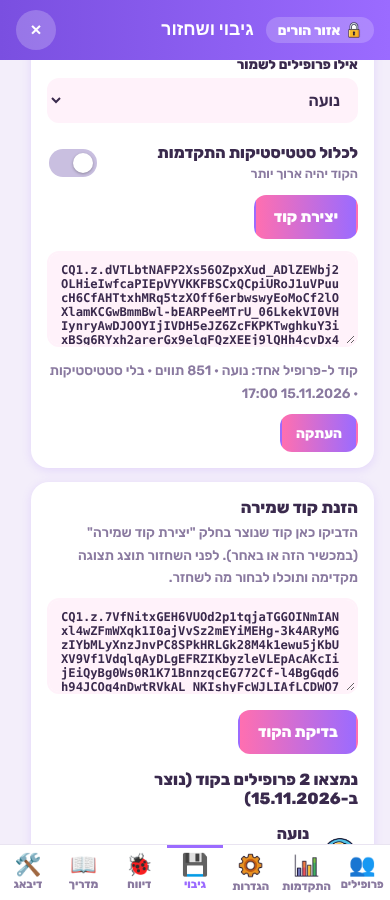
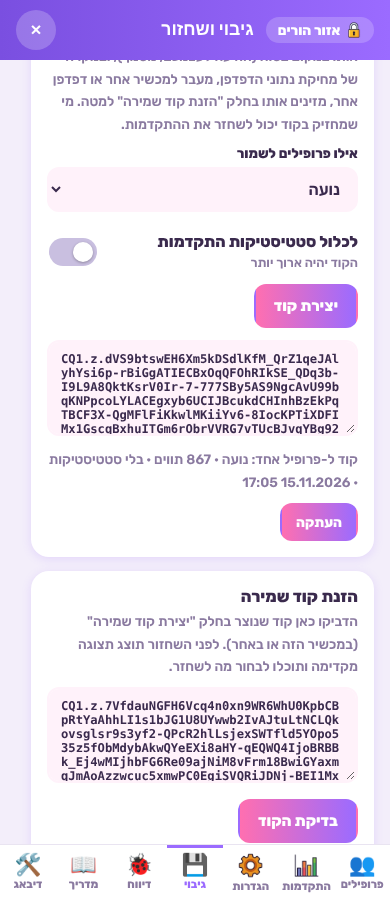
Show coin balance beside the gift square
Once the room is unlocked, the top-left shows the coins next to
the prizes (wide screens only). Version 2026.11.15f.

Claude-Session: https://claude.ai/code/session_014bxtQwGCqcJn3mQBcD8JTQ

Changed region(s): [[0.0923, 0.0622, 0.9538, 0.9644], [0.1231, 0.1556, 0.2462, 0.2178]]

diff --git a/math-quest.html b/math-quest.html
@@ -588,6 +588,12 @@ body[data-view="play"] .card{background:color-mix(in srgb, var(--card) 76%, tran
 .topbar .chip{padding:3px 12px; font-size:.8rem; justify-content:space-between; background:var(--card); gap:8px}
 .topbar .rewardstrip{width:72px; height:72px; flex:none; margin:0; padding:4px 3px; gap:0; align-items:center; justify-content:center; position:relative; background:var(--card); border-radius:16px}
 .topbar .rs-title, .topbar .rs-cotton, .topbar .rs-gold{display:none !important}
+/* once the room is unlocked, the coins are shown next to the gift square (wide screens only: a phone has no room for it) */
+.topgifts{display:flex; align-items:flex-start; gap:6px; flex:none}
+.tokbadge{width:58px; height:72px; box-sizing:border-box; display:flex; flex-direction:column; align-items:center; justify-content:center; gap:2px; background:var(--card); border-radius:16px; box-shadow:0 4px 10px var(--shadow); font-family:'Baloo 2',sans-serif; font-weight:800; font-size:.85rem; color:var(--text)}
+.tokbadge[hidden]{display:none}
+.tokbadge .tokimg{height:32px; width:auto; display:block}
+@media (max-width:599px){ .tokbadge{display:none !important} }
 .topbar .rs-top{order:2; justify-content:center; gap:0}
 .topbar .rs-count{margin:0; font-size:.62rem; line-height:1}
 .topbar .rs-ready{position:absolute; top:-7px; inset-inline-start:-5px; font-size:.58rem; padding:1px 7px; white-space:nowrap}
@@ -912,6 +918,7 @@ body[data-view="space"] #spaceView{box-sizing:border-box; display:flex; flex-dir
     <div class="chip">⭐ ניקוד: <span id="score">0</span></div>
     <div class="chip">🔥 רצף: <span id="streak">0</span></div>
   </div>
+  <div class="topgifts"><div class="tokbadge" id="tokBadge" role="img" hidden></div>
   <button type="button" class="rewardstrip" id="rewardsStrip" aria-label="פתחי את חדר המתנות">
     <span class="rs-top">
       <span class="rs-title">🎁 חדר המתנות</span>
@@ -920,7 +927,7 @@ body[data-view="space"] #spaceView{box-sizing:border-box; display:flex; flex-dir
       <span class="rs-count">סה"כ <b id="rsTotal">0</b> ›</span>
     </span>
     <span class="rs-recent" id="rsRecent"><span class="rs-empty">עוד אין מתנות 🎀</span></span>
-  </button>
+  </button></div>
   </div>
   <div class="locbar" id="locBar"><button type="button" class="backbtn" id="backBtn">→ חזרה לבחירת משחק</button></div>
   <h1>🦄 המסע הקסום של קאפקייק</h1>
@@ -1812,6 +1819,7 @@ function persist(){ try{ localStorage.setItem(SAVE_KEY, JSON.stringify(store)); 
 function saveState(){
   const p = activeProfile();
   if(p){ p.progress = captureProgress(); const ch = touchIfChanged(p); persist(); if(ch) cloudChanged(); }
+  if(typeof renderTokBadge==='function') renderTokBadge();
 }
 function newProfileId(){ return 'p'+Date.now().toString(36)+Math.random().toString(36).slice(2,6); }
 function makeProfile(name, gender, progress){
@@ -2555,7 +2563,7 @@ function cloudProfileFromDoc(C, helpers){
 // ===== CLOUD (Google sign-in, cloud progress, problem reports) =====
 // Local-first: the game always works from this device's storage. The cloud is a mirror, so no internet / no account / no quota never blocks play.
 // Everything here is off while CLOUD_CONFIG is null. See firebase/SETUP.md for how to create the (free) Firebase project and paste its settings below.
-const APP_VERSION = '2026.11.15e';       // keep equal to VERSION in sw.js (a test checks it)
+const APP_VERSION = '2026.11.15f';       // keep equal to VERSION in sw.js (a test checks it)
 const BUILD_COMMIT = '';                 // the full id of the commit this page was built from: the deploy workflow (.github/workflows/tests.yml) fills it in; empty in a plain checkout
 const REPO_URL = 'https://github.com/matan-gk/matan-gk.github.io';
 const CLOUD_CONFIG = {apiKey:"AIzaSyAlq_TJNGvWPJpUrpbdq_hkAoURydqMzm0", authDomain:"learning-quest-1.firebaseapp.com", projectId:"learning-quest-1", appId:"1:98931179722:web:78fb00084ccba3efb53433"};   // e.g. {apiKey:'...', authDomain:'xxx.firebaseapp.com', projectId:'xxx', appId:'...'}
@@ -5605,7 +5613,14 @@ function itemHTML(item, isGold, px){
   }
   return `<span style="font-size:${Math.round(px*0.85)}px;line-height:1">${kind}</span>`;
 }
+function renderTokBadge(){   // the coins next to the gift square, once the room is unlocked
+  const el = document.getElementById('tokBadge'); if(!el) return;
+  if(!space.unlocked){ el.hidden = true; return; }
+  const n = tokenBalance(); el.hidden = false; el.setAttribute('aria-label', coinsTxt(n)); el.title = coinsTxt(n);
+  el.innerHTML = `${tokenHTML(n,32)||'<span class="tokzero">🪙</span>'}<b>${n}</b>`;
+}
 function renderRewards(){
+  renderTokBadge();
   const total = collection.length + golden.length;
   document.getElementById('rsTotal').textContent = total;
   const recent = document.getElementById('rsRecent');

diff --git a/tests/tokbadgetest.js b/tests/tokbadgetest.js
@@ -1,0 +1,25 @@
+// the coins next to the gift square at the top: only once the room is unlocked, only on wider screens, and it follows the balance
+const T=require('./lib.js');
+const {chromium}=require('playwright');
+let f=0;const ok=(c,m)=>{console.log((c?'ok   ':'FAIL ')+m);if(!c)f++;};
+(async()=>{const b=await chromium.launch({...T.launchOpts});
+const errs=[];
+const ctx=await b.newContext({viewport:{width:1100,height:800}});const p=await ctx.newPage();p.on('pageerror',e=>errs.push(e.message));
+await p.goto(T.URL);await p.evaluate(()=>localStorage.clear());await p.reload();
+await p.fill('#pfName','X');await p.click('.gopt:has(input[value=f])');await p.click('[data-pact=save]');await p.waitForTimeout(500);
+const vis=()=>p.evaluate(()=>{const e=document.getElementById('tokBadge');const r=e.getBoundingClientRect();return {shown:!!(e.offsetWidth&&e.offsetHeight),txt:e.textContent.trim(),img:!!e.querySelector('img'),x:r.x,sq:document.getElementById('rewardsStrip').getBoundingClientRect().x,top:r.top,sqtop:document.getElementById('rewardsStrip').getBoundingClientRect().top};});
+let v=await vis();ok(!v.shown,'locked room: no coins at the top');
+await p.evaluate(()=>{space.earned=12;space.spent=2;space.unlocked=true;golden=['🍪'];saveState();renderRewards();});
+v=await vis();ok(v.shown&&v.txt==='10'&&v.img,'unlocked: the balance (10) with a coin picture ('+v.txt+')');
+ok(v.x>v.sq&&Math.abs(v.top-v.sqtop)<6,'beside the gift square (the square stays at the far left) on the same line');
+await p.evaluate(()=>{space.spent=7;saveState();});
+v=await vis();ok(v.txt==='5','spending updates it ('+v.txt+')');
+await p.evaluate(()=>{space.earned=0;space.spent=0;saveState();});
+v=await vis();ok(v.shown&&/0$/.test(v.txt),'zero coins shows 0');
+await p.setViewportSize({width:400,height:800});
+v=await vis();ok(!v.shown,'phone width: not shown');
+await p.setViewportSize({width:1100,height:800});
+await p.evaluate(()=>{space.unlocked=false;saveState();});
+v=await vis();ok(!v.shown,'locking again hides it');
+ok(errs.length===0,'no page errors '+errs.join('|'));
+await b.close();process.exit(f?1:0);})();

diff --git a/tests/run.js b/tests/run.js
@@ -68,6 +68,7 @@ const TESTS = [
   ['readingbank','readingbank.js','reading bank: every passage valid and playable, passages never pop up on the menu'],
   ['prizetest','prizetest.js','prize pop-up: appears mid-screen, flies to the gift box, never overlaps a party, reduced motion'],
   ['items3','items3test.js','batch 3 items (kids furniture and play): catalog, back pictures, hosts, recolouring, transparent gaps'],
+  ['tokbadge','tokbadgetest.js','coin balance next to the gift square once the room is unlocked'],
   ['bedmask','bedmasktest.js','bed part masks: fold band is blanket, bit left of the pillow is sheet'],
   ['wall','walltest.js','pictures on the walls: place, move, put away, overlaps, sync'],
   ['items4','items4test.js','batch 4 items (lights, music, learning, pets, plushies): catalog, backs, part names'],

diff --git a/sw.js b/sw.js
@@ -1,6 +1,6 @@
 // Cupcake Quest service worker: lets the game open with no internet and tells the page when a new version is ready.
 // VERSION must equal APP_VERSION in math-quest.html (a test checks it): changing this file is what makes browsers notice a new release.
-const VERSION = '2026.11.15e';
+const VERSION = '2026.11.15f';
 const CACHE = 'cq-' + VERSION;
 const PAGE = './math-quest.html';
 const CORE = [PAGE, './manifest.webmanifest', './icon-192.png', './icon-512.png', './icon-maskable-512.png', './apple-touch-icon.png'];

diff --git a/docs/ENHANCEMENTS.md b/docs/ENHANCEMENTS.md
@@ -656,3 +656,7 @@ Marked on a screenshot of the bed (b = blanket, s = sheet, p = pillow), two part
 - The narrow band along the blanket's top edge (the fold, between the blanket and the pillow) was sheet. It is now blanket.
 - The small piece left of the pillow (a bit of sheet showing) was pillow. It is now sheet.
 `tools/bedmask.py` fixes the masks of levels 1 to 4 (level 5, the canopy bed, has neither; the same band is on levels 2 to 4, so it is changed there too). New masks are lossless files. `tests/bedmasktest.js` checks the marked points.
+
+## Step 43: coins next to the gift square (branch `prize-corner`, off `bed-colors`; version 2026.11.15f)
+
+Once the room is unlocked, the top-left of the screen shows the coin balance (the coin picture for the amount, as in the gift room, and the number) in a small card beside the gift square, so the balance is visible without opening anything. It follows the balance (every save), is hidden while the room is locked, and is left out on phone widths (under 600 px). Not tappable. Interpretation of the request: "also the number of tokens" next to the prizes. `renderTokBadge()`; `tests/tokbadgetest.js`.
